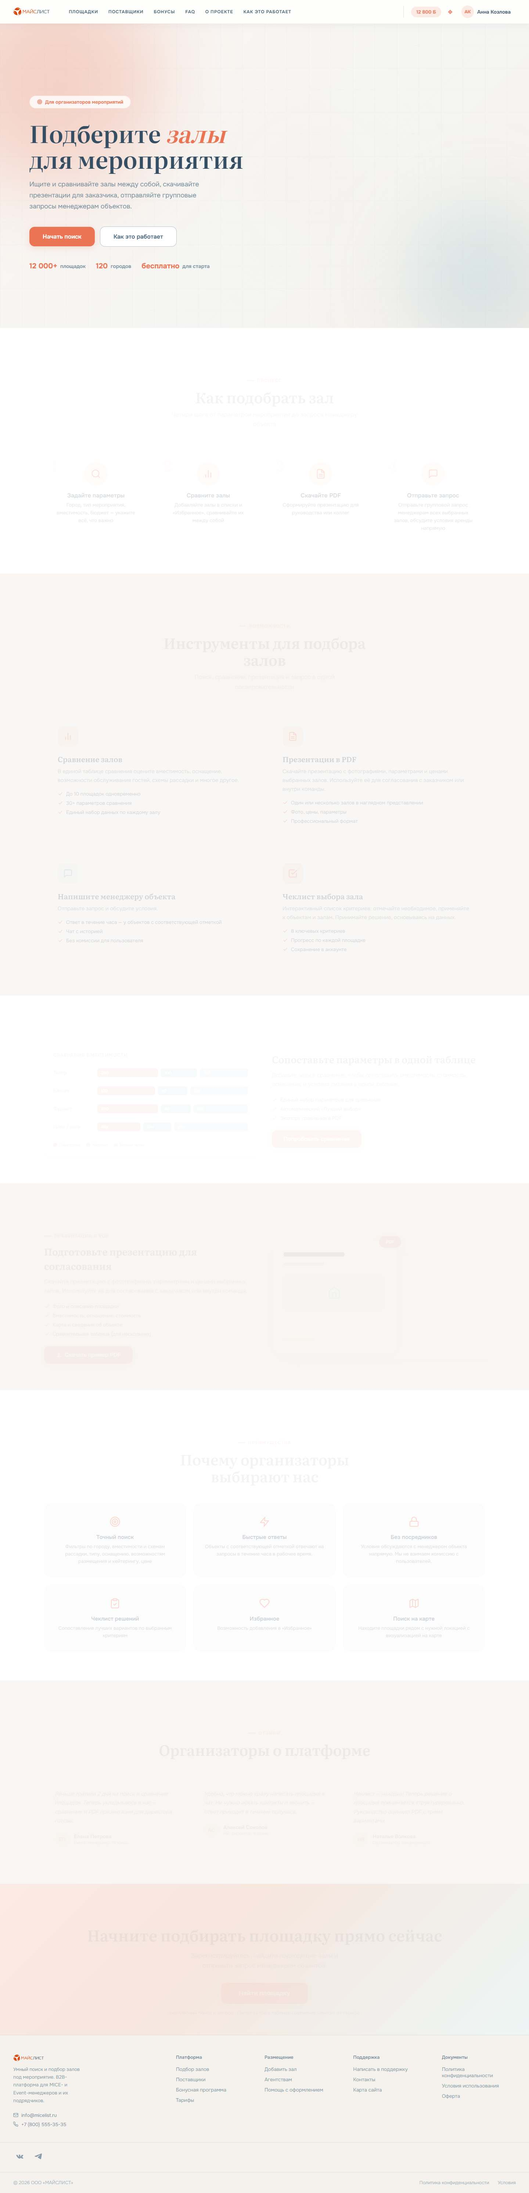
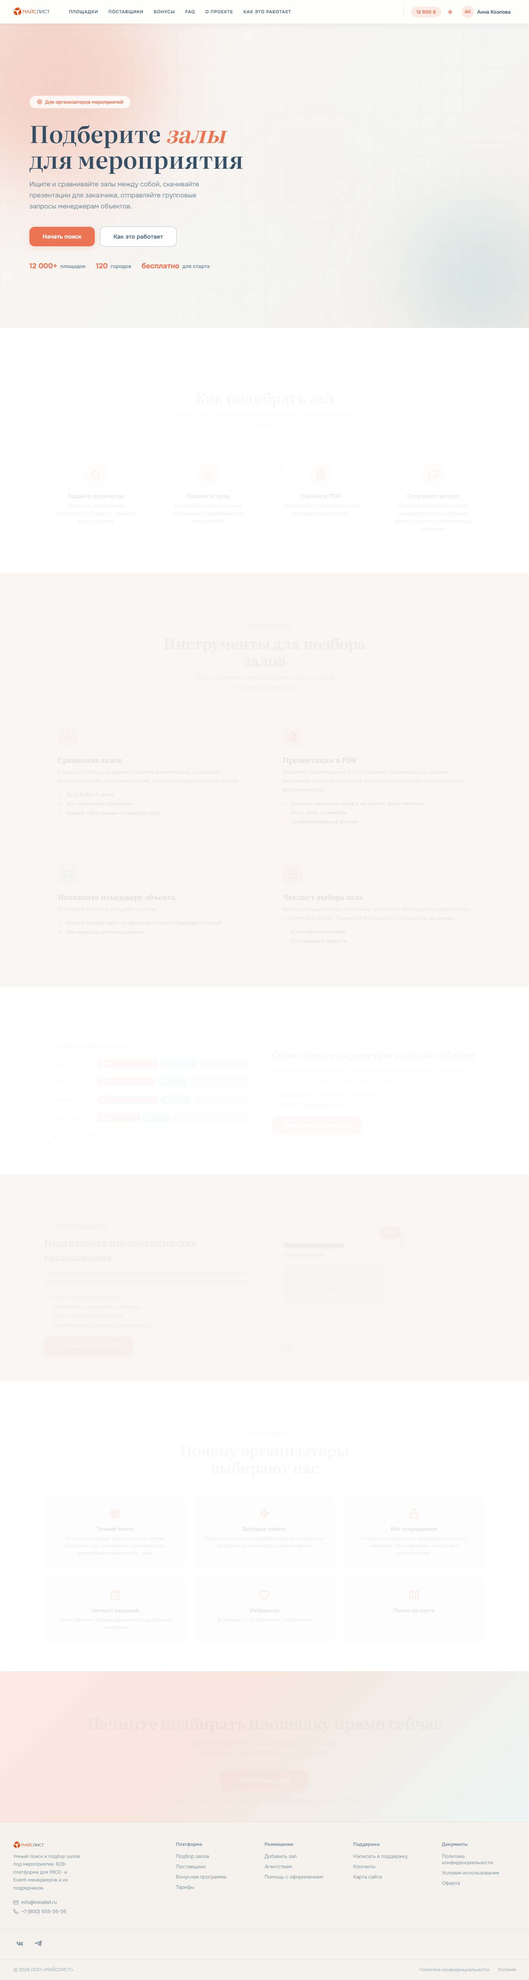
Тексты сайта, раунд 2: скрыты удалённые клиентом блоки, доработки по отчёту
- Блоки, удалённые в корректуре, скрыты комментарием REMOVED BY CLIENT
  (отзывы на трёх страницах, пункты про чат, карточки функций и др.);
  в «Функциях платформы» на планшете последняя карточка на всю строку.
- «Агентствам»: лимиты сравнения собираются из тарифов.
- «О проекте»: нейтральные значки вместо ✕.
- listing-help: info@micelist.ru.
- data.js: миграция старых названий удобств в localStorage.
- Окно «Написать нам»: аккуратный перенос длинной темы на узких экранах.

diff --git a/app/for-organizers.html b/app/for-organizers.html
@@ -193,7 +193,7 @@
     <div class="preview-stack">
       <div class="pv pv-1"><div class="pv-icon"><svg width="20" height="20" viewBox="0 0 24 24" fill="none" stroke="var(--c)" stroke-width="2" stroke-linecap="round" stroke-linejoin="round"><line x1="18" y1="20" x2="18" y2="10"/><line x1="12" y1="20" x2="12" y2="4"/><line x1="6" y1="20" x2="6" y2="14"/></svg></div><div class="pv-title">Сравнение залов</div><div class="pv-text">Вместимость, цены, оснащение и услуги — всё рядом</div><div class="pv-bar"><div class="pv-bar-fill" style="width:85%"></div></div></div>
       <div class="pv pv-2"><div class="pv-icon"><svg width="20" height="20" viewBox="0 0 24 24" fill="none" stroke="var(--c)" stroke-width="2" stroke-linecap="round" stroke-linejoin="round"><path d="M14.5 2H6a2 2 0 0 0-2 2v16a2 2 0 0 0 2 2h12a2 2 0 0 0 2-2V7.5L14.5 2z"/><polyline points="14 2 14 8 20 8"/><line x1="16" y1="13" x2="8" y2="13"/><line x1="16" y1="17" x2="8" y2="17"/></svg></div><div class="pv-title">Презентация в PDF</div><div class="pv-text">Скачайте и отправьте руководству</div></div>
-      <div class="pv pv-3"><div class="pv-icon"><svg width="20" height="20" viewBox="0 0 24 24" fill="none" stroke="var(--c)" stroke-width="2" stroke-linecap="round" stroke-linejoin="round"><path d="M21 15a2 2 0 0 1-2 2H7l-4 4V5a2 2 0 0 1 2-2h14a2 2 0 0 1 2 2z"/></svg></div><div class="pv-title">Прямая связь</div><div class="pv-text">Чат с площадкой без посредников</div></div>
+      <div class="pv pv-3"><div class="pv-icon"><svg width="20" height="20" viewBox="0 0 24 24" fill="none" stroke="var(--c)" stroke-width="2" stroke-linecap="round" stroke-linejoin="round"><path d="M21 15a2 2 0 0 1-2 2H7l-4 4V5a2 2 0 0 1 2-2h14a2 2 0 0 1 2 2z"/></svg></div><div class="pv-title">Прямая связь</div><!-- REMOVED BY CLIENT: подпись карточки «Прямая связь» | <div class="pv-text">Чат с площадкой без посредников</div> --></div>
     </div>
   </div>
 </section>
@@ -216,10 +216,10 @@
   <div class="section-center reveal"><div class="section-label">Возможности</div><h2 class="section-title">Инструменты для подбора залов</h2><p class="section-desc">Поиск, сравнение, презентация и запрос в одной последовательности</p></div>
   <div class="container">
     <div class="features">
-      <div class="feat reveal"><div class="feat-icon coral"><svg width="26" height="26" viewBox="0 0 24 24" fill="none" stroke="var(--c)" stroke-width="1.8" stroke-linecap="round" stroke-linejoin="round"><line x1="18" y1="20" x2="18" y2="10"/><line x1="12" y1="20" x2="12" y2="4"/><line x1="6" y1="20" x2="6" y2="14"/></svg></div><div class="feat-t">Сравнение залов</div><div class="feat-d">В единой таблице сравнения оцените вместимость, оснащение, возможности обслуживания гостей, схемы рассадки и многое другое.</div><ul class="feat-list"><li><svg width="15" height="15" fill="none" viewBox="0 0 15 15"><path d="M3 7.5l3 3 6-6.5" stroke="currentColor" stroke-width="1.6" stroke-linecap="round" stroke-linejoin="round"/></svg>До 10 площадок одновременно</li><li><svg width="15" height="15" fill="none" viewBox="0 0 15 15"><path d="M3 7.5l3 3 6-6.5" stroke="currentColor" stroke-width="1.6" stroke-linecap="round" stroke-linejoin="round"/></svg>30+ параметров сравнения</li><li><svg width="15" height="15" fill="none" viewBox="0 0 15 15"><path d="M3 7.5l3 3 6-6.5" stroke="currentColor" stroke-width="1.6" stroke-linecap="round" stroke-linejoin="round"/></svg>Единый набор данных по каждому залу</li></ul></div>
+      <div class="feat reveal"><div class="feat-icon coral"><svg width="26" height="26" viewBox="0 0 24 24" fill="none" stroke="var(--c)" stroke-width="1.8" stroke-linecap="round" stroke-linejoin="round"><line x1="18" y1="20" x2="18" y2="10"/><line x1="12" y1="20" x2="12" y2="4"/><line x1="6" y1="20" x2="6" y2="14"/></svg></div><div class="feat-t">Сравнение залов</div><div class="feat-d">В единой таблице сравнения оцените вместимость, оснащение, возможности обслуживания гостей, схемы рассадки и многое другое.</div><ul class="feat-list"><li><svg width="15" height="15" fill="none" viewBox="0 0 15 15"><path d="M3 7.5l3 3 6-6.5" stroke="currentColor" stroke-width="1.6" stroke-linecap="round" stroke-linejoin="round"/></svg><span data-compare-limits>Лимит зависит от тарифа</span></li><li><svg width="15" height="15" fill="none" viewBox="0 0 15 15"><path d="M3 7.5l3 3 6-6.5" stroke="currentColor" stroke-width="1.6" stroke-linecap="round" stroke-linejoin="round"/></svg>30+ параметров сравнения</li><li><svg width="15" height="15" fill="none" viewBox="0 0 15 15"><path d="M3 7.5l3 3 6-6.5" stroke="currentColor" stroke-width="1.6" stroke-linecap="round" stroke-linejoin="round"/></svg>Единый набор данных по каждому залу</li></ul></div>
       <div class="feat reveal"><div class="feat-icon coral"><svg width="26" height="26" viewBox="0 0 24 24" fill="none" stroke="var(--c)" stroke-width="1.8" stroke-linecap="round" stroke-linejoin="round"><path d="M14.5 2H6a2 2 0 0 0-2 2v16a2 2 0 0 0 2 2h12a2 2 0 0 0 2-2V7.5L14.5 2z"/><polyline points="14 2 14 8 20 8"/><line x1="16" y1="13" x2="8" y2="13"/><line x1="16" y1="17" x2="8" y2="17"/></svg></div><div class="feat-t">Презентации в PDF</div><div class="feat-d">Скачайте презентацию с фотографиями, параметрами и ценами выбранных залов. Используйте её для согласования с заказчиком или внутри команды.</div><ul class="feat-list"><li><svg width="15" height="15" fill="none" viewBox="0 0 15 15"><path d="M3 7.5l3 3 6-6.5" stroke="currentColor" stroke-width="1.6" stroke-linecap="round" stroke-linejoin="round"/></svg>Один или несколько залов в наглядном представлении</li><li><svg width="15" height="15" fill="none" viewBox="0 0 15 15"><path d="M3 7.5l3 3 6-6.5" stroke="currentColor" stroke-width="1.6" stroke-linecap="round" stroke-linejoin="round"/></svg>Фото, цены, параметры</li><li><svg width="15" height="15" fill="none" viewBox="0 0 15 15"><path d="M3 7.5l3 3 6-6.5" stroke="currentColor" stroke-width="1.6" stroke-linecap="round" stroke-linejoin="round"/></svg>Профессиональный формат</li></ul></div>
-      <div class="feat reveal"><div class="feat-icon aqua"><svg width="26" height="26" viewBox="0 0 24 24" fill="none" stroke="var(--aq)" stroke-width="1.8" stroke-linecap="round" stroke-linejoin="round"><path d="M21 15a2 2 0 0 1-2 2H7l-4 4V5a2 2 0 0 1 2-2h14a2 2 0 0 1 2 2z"/></svg></div><div class="feat-t">Напишите менеджеру объекта</div><div class="feat-d">Отправьте запрос и обсудите условия.</div><ul class="feat-list"><li><svg width="15" height="15" fill="none" viewBox="0 0 15 15"><path d="M3 7.5l3 3 6-6.5" stroke="currentColor" stroke-width="1.6" stroke-linecap="round" stroke-linejoin="round"/></svg>Ответ в течение часа — у объектов с соответствующей отметкой</li><li><svg width="15" height="15" fill="none" viewBox="0 0 15 15"><path d="M3 7.5l3 3 6-6.5" stroke="currentColor" stroke-width="1.6" stroke-linecap="round" stroke-linejoin="round"/></svg>Чат с историей</li><li><svg width="15" height="15" fill="none" viewBox="0 0 15 15"><path d="M3 7.5l3 3 6-6.5" stroke="currentColor" stroke-width="1.6" stroke-linecap="round" stroke-linejoin="round"/></svg>Без комиссии для пользователя</li></ul></div>
-      <div class="feat reveal"><div class="feat-icon peach"><svg width="26" height="26" viewBox="0 0 24 24" fill="none" stroke="var(--c)" stroke-width="1.8" stroke-linecap="round" stroke-linejoin="round"><polyline points="9 11 12 14 22 4"/><path d="M21 12v7a2 2 0 0 1-2 2H5a2 2 0 0 1-2-2V5a2 2 0 0 1 2-2h11"/></svg></div><div class="feat-t">Чеклист выбора зала</div><div class="feat-d">Интерактивный список критериев: отмечайте необходимое, применяйте к объектам и залам. Принимайте решение, основываясь на данных.</div><ul class="feat-list"><li><svg width="15" height="15" fill="none" viewBox="0 0 15 15"><path d="M3 7.5l3 3 6-6.5" stroke="currentColor" stroke-width="1.6" stroke-linecap="round" stroke-linejoin="round"/></svg>8 ключевых критериев</li><li><svg width="15" height="15" fill="none" viewBox="0 0 15 15"><path d="M3 7.5l3 3 6-6.5" stroke="currentColor" stroke-width="1.6" stroke-linecap="round" stroke-linejoin="round"/></svg>Прогресс по каждой площадке</li><li><svg width="15" height="15" fill="none" viewBox="0 0 15 15"><path d="M3 7.5l3 3 6-6.5" stroke="currentColor" stroke-width="1.6" stroke-linecap="round" stroke-linejoin="round"/></svg>Сохранение в аккаунте</li></ul></div>
+      <div class="feat reveal"><div class="feat-icon aqua"><svg width="26" height="26" viewBox="0 0 24 24" fill="none" stroke="var(--aq)" stroke-width="1.8" stroke-linecap="round" stroke-linejoin="round"><path d="M21 15a2 2 0 0 1-2 2H7l-4 4V5a2 2 0 0 1 2-2h14a2 2 0 0 1 2 2z"/></svg></div><div class="feat-t">Напишите менеджеру объекта</div><div class="feat-d">Отправьте запрос и обсудите условия.</div><ul class="feat-list"><li><svg width="15" height="15" fill="none" viewBox="0 0 15 15"><path d="M3 7.5l3 3 6-6.5" stroke="currentColor" stroke-width="1.6" stroke-linecap="round" stroke-linejoin="round"/></svg>Ответ в течение часа — у объектов с соответствующей отметкой</li><!-- REMOVED BY CLIENT: пункт списка | <li><svg width="15" height="15" fill="none" viewBox="0 0 15 15"><path d="M3 7.5l3 3 6-6.5" stroke="currentColor" stroke-width="1.6" stroke-linecap="round" stroke-linejoin="round"/></svg>Чат с историей</li> --><li><svg width="15" height="15" fill="none" viewBox="0 0 15 15"><path d="M3 7.5l3 3 6-6.5" stroke="currentColor" stroke-width="1.6" stroke-linecap="round" stroke-linejoin="round"/></svg>Без комиссии для пользователя</li></ul></div>
+      <div class="feat reveal"><div class="feat-icon peach"><svg width="26" height="26" viewBox="0 0 24 24" fill="none" stroke="var(--c)" stroke-width="1.8" stroke-linecap="round" stroke-linejoin="round"><polyline points="9 11 12 14 22 4"/><path d="M21 12v7a2 2 0 0 1-2 2H5a2 2 0 0 1-2-2V5a2 2 0 0 1 2-2h11"/></svg></div><div class="feat-t">Чеклист выбора зала</div><div class="feat-d">Интерактивный список критериев: отмечайте необходимое, применяйте к объектам и залам. Принимайте решение, основываясь на данных.</div><ul class="feat-list"><li><svg width="15" height="15" fill="none" viewBox="0 0 15 15"><path d="M3 7.5l3 3 6-6.5" stroke="currentColor" stroke-width="1.6" stroke-linecap="round" stroke-linejoin="round"/></svg>8 ключевых критериев</li><!-- REMOVED BY CLIENT: пункт списка | <li><svg width="15" height="15" fill="none" viewBox="0 0 15 15"><path d="M3 7.5l3 3 6-6.5" stroke="currentColor" stroke-width="1.6" stroke-linecap="round" stroke-linejoin="round"/></svg>Прогресс по каждой площадке</li> --><li><svg width="15" height="15" fill="none" viewBox="0 0 15 15"><path d="M3 7.5l3 3 6-6.5" stroke="currentColor" stroke-width="1.6" stroke-linecap="round" stroke-linejoin="round"/></svg>Сохранение в аккаунте</li></ul></div>
     </div>
   </div>
 </section>
@@ -239,7 +239,7 @@
       <div class="cmp-text">
         <h3>Сопоставьте параметры в одной таблице</h3>
         <p>Добавьте залы в сравнение, чтобы сопоставить вместимость, стоимость, оснащение и условия питания в одной таблице.</p>
-        <ul class="feat-list"><li><svg width="15" height="15" fill="none" viewBox="0 0 15 15"><path d="M3 7.5l3 3 6-6.5" stroke="currentColor" stroke-width="1.6" stroke-linecap="round" stroke-linejoin="round"/></svg>Единый набор параметров для сравнения</li><li><svg width="15" height="15" fill="none" viewBox="0 0 15 15"><path d="M3 7.5l3 3 6-6.5" stroke="currentColor" stroke-width="1.6" stroke-linecap="round" stroke-linejoin="round"/></svg>Автоматический «Лучший выбор»</li><li><svg width="15" height="15" fill="none" viewBox="0 0 15 15"><path d="M3 7.5l3 3 6-6.5" stroke="currentColor" stroke-width="1.6" stroke-linecap="round" stroke-linejoin="round"/></svg>Экспорт сравнения в PDF</li></ul>
+        <ul class="feat-list"><li><svg width="15" height="15" fill="none" viewBox="0 0 15 15"><path d="M3 7.5l3 3 6-6.5" stroke="currentColor" stroke-width="1.6" stroke-linecap="round" stroke-linejoin="round"/></svg>Единый набор параметров для сравнения</li><!-- REMOVED BY CLIENT: пункт списка | <li><svg width="15" height="15" fill="none" viewBox="0 0 15 15"><path d="M3 7.5l3 3 6-6.5" stroke="currentColor" stroke-width="1.6" stroke-linecap="round" stroke-linejoin="round"/></svg>Автоматический «Лучший выбор»</li> --><li><svg width="15" height="15" fill="none" viewBox="0 0 15 15"><path d="M3 7.5l3 3 6-6.5" stroke="currentColor" stroke-width="1.6" stroke-linecap="round" stroke-linejoin="round"/></svg>Экспорт сравнения в PDF</li></ul>
         <button class="cmp-btn">Попробовать сравнение</button>
       </div>
     </div>
@@ -285,12 +285,13 @@
       <div class="ben reveal"><div class="ben-icon"><svg width="30" height="30" viewBox="0 0 24 24" fill="none" stroke="var(--c)" stroke-width="1.8" stroke-linecap="round" stroke-linejoin="round"><rect width="18" height="11" x="3" y="11" rx="2" ry="2"/><path d="M7 11V7a5 5 0 0 1 10 0v4"/></svg></div><div class="ben-t">Без посредников</div><div class="ben-d">Условия обсуждаются с менеджером объекта напрямую. Мы не взимаем комиссию с пользователей.</div></div>
       <div class="ben reveal"><div class="ben-icon"><svg width="30" height="30" viewBox="0 0 24 24" fill="none" stroke="var(--c)" stroke-width="1.8" stroke-linecap="round" stroke-linejoin="round"><rect width="8" height="4" x="8" y="2" rx="1" ry="1"/><path d="M16 4h2a2 2 0 0 1 2 2v14a2 2 0 0 1-2 2H6a2 2 0 0 1-2-2V6a2 2 0 0 1 2-2h2"/><path d="m9 14 2 2 4-4"/></svg></div><div class="ben-t">Чеклист решений</div><div class="ben-d">Сопоставление лучших вариантов по выбранным критериям</div></div>
       <div class="ben reveal"><div class="ben-icon"><svg width="30" height="30" viewBox="0 0 24 24" fill="none" stroke="var(--c)" stroke-width="1.8" stroke-linecap="round" stroke-linejoin="round"><path d="M19 14c1.49-1.46 3-3.21 3-5.5A5.5 5.5 0 0 0 16.5 3c-1.76 0-3 .5-4.5 2-1.5-1.5-2.74-2-4.5-2A5.5 5.5 0 0 0 2 8.5c0 2.3 1.5 4.05 3 5.5l7 7Z"/></svg></div><div class="ben-t">Избранное</div><div class="ben-d">Возможность добавления в «Избранное»</div></div>
-      <div class="ben reveal"><div class="ben-icon"><svg width="30" height="30" viewBox="0 0 24 24" fill="none" stroke="var(--c)" stroke-width="1.8" stroke-linecap="round" stroke-linejoin="round"><polygon points="3 6 9 3 15 6 21 3 21 18 15 21 9 18 3 21"/><line x1="9" y1="3" x2="9" y2="18"/><line x1="15" y1="6" x2="15" y2="21"/></svg></div><div class="ben-t">Поиск на карте</div><div class="ben-d">Находите площадки рядом с нужной локацией с визуализацией на карте</div></div>
+      <div class="ben reveal"><div class="ben-icon"><svg width="30" height="30" viewBox="0 0 24 24" fill="none" stroke="var(--c)" stroke-width="1.8" stroke-linecap="round" stroke-linejoin="round"><polygon points="3 6 9 3 15 6 21 3 21 18 15 21 9 18 3 21"/><line x1="9" y1="3" x2="9" y2="18"/><line x1="15" y1="6" x2="15" y2="21"/></svg></div><div class="ben-t">Поиск на карте</div><!-- REMOVED BY CLIENT: описание «Поиск на карте» | <div class="ben-d">Находите площадки рядом с нужной локацией с визуализацией на карте</div> --></div>
     </div>
   </div>
 </section>
 
 <!-- TESTIMONIALS -->
+<!-- REMOVED BY CLIENT: отзывы «Организаторы о платформе» (решение клиента: не публиковать фейковые отзывы)
 <section class="section">
   <div class="section-center reveal"><div class="section-label">Отзывы</div><h2 class="section-title">Организаторы о платформе</h2></div>
   <div class="container">
@@ -300,7 +301,7 @@
       <div class="test reveal"><div class="test-q">Чеклист — находка! Теперь решение о площадке принимается структурированно. Руководство оценило PDF с тремя вариантами.</div><div class="test-author"><div class="test-av">НВ</div><div><div class="test-name">Наталья Волкова</div><div class="test-role">Организатор конференций</div></div></div></div>
     </div>
   </div>
-</section>
+</section> -->
 
 <!-- FINAL CTA -->
 <section class="cta-block">
@@ -321,6 +322,17 @@ document.querySelectorAll('.reveal').forEach(el=>obs.observe(el));
 </script>
 <script src="data.js"></script>
 <script src="shared.js"></script>
-<script>MH.init('agencies');</script>
+<script>
+MH.init('agencies');
+/* Лимиты сравнения по платным тарифам — из модели, а не из текста: «До 2, 6 или 15 залов» */
+(function () {
+  const el = document.querySelector('[data-compare-limits]');
+  const n = ML.plans().map(t => t.compare).filter(x => isFinite(x) && x > 0);
+  if (!el || !n.length) return;
+  const last = n[n.length - 1];
+  const list = n.length > 1 ? n.slice(0, -1).join(', ') + ' или ' + last : String(last);
+  el.textContent = 'До ' + list + ' ' + (last % 10 === 1 && last % 100 !== 11 ? 'зала' : 'залов');
+})();
+</script>
 </body>
 </html>

diff --git a/app/list-venue.html b/app/list-venue.html
@@ -184,6 +184,8 @@ button{font-family:inherit;cursor:pointer;}
 .reveal.vis{opacity:1;transform:translateY(0);}
 
 @media(max-width:1100px){.hero-right{display:none;}.hero{padding:120px 48px 80px;gap:0;}}
+/* после скрытия трёх карточек в «Функциях платформы» их нечётное число: в две колонки последняя — на всю строку */
+@media(min-width:601px) and (max-width:900px){.features-grid .feat-card:last-child:nth-child(odd){grid-column:1/-1;}}
 @media(max-width:900px){.steps-grid,.benefits-grid,.features-grid,.test-grid{grid-template-columns:1fr 1fr;}.cat-grid{grid-template-columns:1fr 1fr;}}
 @media(max-width:600px){.nav{padding:0 20px;height:60px;}.nav-links a:not(.nav-cta){display:none;}.hero{padding:100px 20px 60px;min-height:auto;}.hero-h1{font-size:32px;}.hero-sub{font-size:16px;}.hero-actions{flex-direction:column;align-items:stretch;}.btn-hero{text-align:center;}.hero-trust{flex-direction:column;gap:12px;}.section{padding:60px 20px;}.steps-grid,.benefits-grid,.features-grid,.test-grid,.cat-grid{grid-template-columns:1fr;}.footer{padding:40px 20px 20px;}.footer-grid{grid-template-columns:1fr 1fr;gap:20px;}.cta-section{padding:48px 20px;}}
 </style>
@@ -309,21 +311,22 @@ button{font-family:inherit;cursor:pointer;}
   <div class="section-center reveal">
     <div class="section-label">Возможности</div>
     <h2 class="section-title">Функции платформы</h2>
-    <p class="section-desc">Инструменты для эффективного управления площадкой</p>
+    <!-- REMOVED BY CLIENT: подзаголовок «Функции платформы» | <p class="section-desc">Инструменты для эффективного управления площадкой</p> -->
   </div>
   <div class="container">
     <div class="features-grid">
       <div class="feat-card reveal"><div class="feat-icon"><svg width="32" height="32" viewBox="0 0 24 24" fill="none" stroke="var(--c)" stroke-width="1.5" stroke-linecap="round" stroke-linejoin="round"><path d="M21 15a2 2 0 0 1-2 2H7l-4 4V5a2 2 0 0 1 2-2h14a2 2 0 0 1 2 2z"/></svg></div><div class="feat-title">Управление запросами</div><div class="feat-text">Статусы запросов, шаблоны быстрых ответов</div></div>
       <div class="feat-card reveal"><div class="feat-icon"><svg width="32" height="32" viewBox="0 0 24 24" fill="none" stroke="var(--c)" stroke-width="1.5" stroke-linecap="round" stroke-linejoin="round"><path d="M11 4H4a2 2 0 0 0-2 2v14a2 2 0 0 0 2 2h14a2 2 0 0 0 2-2v-7"/><path d="M18.5 2.5a2.121 2.121 0 0 1 3 3L12 15l-4 1 1-4 9.5-9.5z"/></svg></div><div class="feat-title">Редактирование профиля</div><div class="feat-text">Описания залов, фото, цены</div></div>
       <div class="feat-card reveal"><div class="feat-icon"><svg width="32" height="32" viewBox="0 0 24 24" fill="none" stroke="var(--c)" stroke-width="1.5" stroke-linecap="round" stroke-linejoin="round"><line x1="18" y1="20" x2="18" y2="10"/><line x1="12" y1="20" x2="12" y2="4"/><line x1="6" y1="20" x2="6" y2="14"/></svg></div><div class="feat-title">Статистика просмотров</div><div class="feat-text">Динамика эффективности</div></div>
-      <div class="feat-card reveal"><div class="feat-icon"><svg width="32" height="32" viewBox="0 0 24 24" fill="none" stroke="var(--c)" stroke-width="1.5" stroke-linecap="round" stroke-linejoin="round"><polygon points="13 2 3 14 12 14 11 22 21 10 12 10 13 2"/></svg></div><div class="feat-title">Быстрые ответы</div><div class="feat-text">Шаблоны сообщений для отклика</div></div>
-      <div class="feat-card reveal"><div class="feat-icon"><svg width="32" height="32" viewBox="0 0 24 24" fill="none" stroke="var(--c)" stroke-width="1.5" stroke-linecap="round" stroke-linejoin="round"><rect width="18" height="18" x="3" y="4" rx="2" ry="2"/><line x1="16" y1="2" x2="16" y2="6"/><line x1="8" y1="2" x2="8" y2="6"/><line x1="3" y1="10" x2="21" y2="10"/></svg></div><div class="feat-title">Календарь дат</div><div class="feat-text">Управление доступностью и загруженностью</div></div>
-      <div class="feat-card reveal"><div class="feat-icon"><svg width="32" height="32" viewBox="0 0 24 24" fill="none" stroke="var(--c)" stroke-width="1.5" stroke-linecap="round" stroke-linejoin="round"><path d="M18 8A6 6 0 0 0 6 8c0 7-3 9-3 9h18s-3-2-3-9"/><path d="M13.73 21a2 2 0 0 1-3.46 0"/></svg></div><div class="feat-title">Уведомления</div><div class="feat-text">Уведомления о новых запросах и изменениях</div></div>
+      <!-- REMOVED BY CLIENT: карточка «Быстрые ответы» | <div class="feat-card reveal"><div class="feat-icon"><svg width="32" height="32" viewBox="0 0 24 24" fill="none" stroke="var(--c)" stroke-width="1.5" stroke-linecap="round" stroke-linejoin="round"><polygon points="13 2 3 14 12 14 11 22 21 10 12 10 13 2"/></svg></div><div class="feat-title">Быстрые ответы</div><div class="feat-text">Шаблоны сообщений для отклика</div></div> -->
+      <!-- REMOVED BY CLIENT: карточка «Календарь дат» | <div class="feat-card reveal"><div class="feat-icon"><svg width="32" height="32" viewBox="0 0 24 24" fill="none" stroke="var(--c)" stroke-width="1.5" stroke-linecap="round" stroke-linejoin="round"><rect width="18" height="18" x="3" y="4" rx="2" ry="2"/><line x1="16" y1="2" x2="16" y2="6"/><line x1="8" y1="2" x2="8" y2="6"/><line x1="3" y1="10" x2="21" y2="10"/></svg></div><div class="feat-title">Календарь дат</div><div class="feat-text">Управление доступностью и загруженностью</div></div> -->
+      <!-- REMOVED BY CLIENT: карточка «Уведомления» | <div class="feat-card reveal"><div class="feat-icon"><svg width="32" height="32" viewBox="0 0 24 24" fill="none" stroke="var(--c)" stroke-width="1.5" stroke-linecap="round" stroke-linejoin="round"><path d="M18 8A6 6 0 0 0 6 8c0 7-3 9-3 9h18s-3-2-3-9"/><path d="M13.73 21a2 2 0 0 1-3.46 0"/></svg></div><div class="feat-title">Уведомления</div><div class="feat-text">Уведомления о новых запросах и изменениях</div></div> -->
     </div>
   </div>
 </section>
 
 <!-- TESTIMONIALS -->
+<!-- REMOVED BY CLIENT: отзывы «Владельцы площадок о нас» (решение клиента: не публиковать фейковые отзывы)
 <section class="section">
   <div class="section-center reveal">
     <div class="section-label">Отзывы</div>
@@ -345,7 +348,7 @@ button{font-family:inherit;cursor:pointer;}
       </div>
     </div>
   </div>
-</section>
+</section> -->
 
 <!-- FINAL CTA -->
 <section class="cta-section">

diff --git a/app/about.html b/app/about.html
@@ -58,13 +58,14 @@ h2{font-family:'Literata',Georgia,serif;font-size:24px;font-weight:600;color:var
 .feat b{display:block;font-size:14.5px;font-weight:700;color:var(--slate-deep);margin-bottom:6px;}
 .feat span{font-size:13px;line-height:1.6;color:var(--slate-muted);}
 
-/* чего не делаем */
+/* что происходит вне платформы: нейтральный значок «наружу» */
 .nots{display:flex;flex-direction:column;gap:10px;}
 .not{display:flex;align-items:flex-start;gap:12px;background:var(--white);
-  border:1px solid rgba(197,227,225,.32);border-left:3px solid var(--coral);
+  border:1px solid rgba(197,227,225,.32);border-left:3px solid var(--aqua-3);
   border-radius:var(--r-md);padding:15px 18px;box-shadow:var(--sh-sm);}
-.not-x{width:22px;height:22px;border-radius:50%;background:var(--coral-soft);color:var(--coral);
-  display:flex;align-items:center;justify-content:center;font-size:12px;font-weight:800;flex-shrink:0;margin-top:1px;}
+.not-x{width:22px;height:22px;border-radius:50%;background:var(--aqua-pale);color:var(--slate-mid);
+  display:flex;align-items:center;justify-content:center;flex-shrink:0;margin-top:1px;}
+.not-x svg{display:block;}
 .not b{display:block;font-size:14px;font-weight:700;color:var(--slate-deep);margin-bottom:4px;}
 .not span{font-size:13px;line-height:1.6;color:var(--slate-muted);}
 
@@ -111,17 +112,18 @@ h2{font-family:'Literata',Georgia,serif;font-size:24px;font-weight:600;color:var
 
   <h2>Что происходит вне платформы</h2>
   <div class="nots">
-    <div class="not"><span class="not-x">✕</span><div>
+    <div class="not"><span class="not-x" aria-hidden="true"><svg width="12" height="12" viewBox="0 0 24 24" fill="none" stroke="currentColor" stroke-width="2.4" stroke-linecap="round" stroke-linejoin="round"><path d="M7 17 17 7"/><path d="M8 7h9v9"/></svg></span><div>
       <b>Бронирование и заключение договора</b>
       <span>Бронирование и договор идут напрямую между вами и объектом. Ресурс не участвует
       в переписке и не выступает стороной сделки.</span></div></div>
-    <div class="not"><span class="not-x">✕</span><div>
+    <div class="not"><span class="not-x" aria-hidden="true"><svg width="12" height="12" viewBox="0 0 24 24" fill="none" stroke="currentColor" stroke-width="2.4" stroke-linecap="round" stroke-linejoin="round"><path d="M7 17 17 7"/><path d="M8 7h9v9"/></svg></span><div>
       <b>Расчёт и согласование сметы</b>
       <span>Калькулятора услуг и смет не предусмотрено. Подтверждающих документов и смет
       ресурс не получает ни от пользователя, ни от объектов.</span></div></div>
-    <div class="not"><span class="not-x">✕</span><div>
+    <!-- REMOVED BY CLIENT: пункт «Не передаёт контакты пользователей»
+    <div class="not"><span class="not-x" aria-hidden="true"><svg width="12" height="12" viewBox="0 0 24 24" fill="none" stroke="currentColor" stroke-width="2.4" stroke-linecap="round" stroke-linejoin="round"><path d="M7 17 17 7"/><path d="M8 7h9v9"/></svg></span><div>
       <b>Не передаёт контакты пользователей</b>
-      <span>Объектам и поставщикам уходит только запрос. Персональные данные не раскрываются.</span></div></div>
+      <span>Объектам и поставщикам уходит только запрос. Персональные данные не раскрываются.</span></div></div> -->
   </div>
 
   <h2>Что в планах МАЙСЛИСТ</h2>

diff --git a/app/data.js b/app/data.js
@@ -541,6 +541,18 @@
   ];
 
   /* ─────────── 8. СОСТОЯНИЕ ПОЛЬЗОВАТЕЛЯ ─────────── */
+  /* Удобства переименованы по корректуре клиента (сентябрь 2026). Старые названия
+     остаются в сохранённых фильтрах посетителей и в объектах, заведённых в кабинете:
+     переводим их при чтении, чтобы выбор не сбрасывался и объекты находились. */
+  const FEATURE_RENAMES = {
+    'Место для велкома': 'Зона Welcome',
+    'Своя парковка': 'Отдельная парковка',
+    'Можно привезти алкоголь': 'Возможен свой алкоголь (пробковый сбор)',
+    'Возможен свой кейтеринг': 'Возможен кейтеринг заказчика',
+  };
+  const renameFeature = (x) => FEATURE_RENAMES[x] || x;
+  const hasOldFeature = (v) => Object.keys(FEATURE_RENAMES).some(k => JSON.stringify(v || '').includes(JSON.stringify(k)));
+
   /* Ключи localStorage. mh_compare теперь хранит ID ЗАЛОВ, а не объектов —
      это ломающее изменение относительно старого mh_compare, поэтому ключ новый. */
 
@@ -557,7 +569,7 @@
   const state = {
     tariff: read(K.tariff, 'guest'),   // первый заход — незарегистрированный посетитель
     filters: unpackFilters(read(K.filters, null)),
-    myVenues: read(K.myVenues, []),
+    myVenues: read(K.myVenues, []).map(v => Array.isArray(v.features) ? Object.assign({}, v, { features: v.features.map(renameFeature) }) : v),
     shopItems: read(K.shopItems, []),
     bonusOrders: read(K.bonusOrders, []),
     supplierRequests: read(K.supplierRequests, []),
@@ -596,6 +608,10 @@
     points: () => write(K.points, state.points),
     requests: () => write(K.requests, state.requests),
   };
+
+  // Однократная миграция: если в хранилище были старые названия удобств, сразу сохраняем новые
+  if (hasOldFeature(read(K.filters, null))) persist.filters();
+  if (hasOldFeature(read(K.myVenues, null))) persist.myVenues();
 
   /* ─────────── 9. СЕЛЕКТОРЫ И ЛОГИКА ─────────── */
 
@@ -1000,7 +1016,7 @@
     if (!raw || typeof raw !== 'object') return F;
     for (const k in F) {
       if (!(k in raw)) continue;
-      if (F[k] instanceof Set) F[k] = new Set(Array.isArray(raw[k]) ? raw[k] : []);
+      if (F[k] instanceof Set) F[k] = new Set((Array.isArray(raw[k]) ? raw[k] : []).map(renameFeature));
       else if (k === 'halls') F[k] = Array.isArray(raw[k])
         ? raw[k].filter(x => x && typeof x === 'object').map(x => ({ seating: String(x.seating || ''), min: +x.min || 0 }))
         : [];

diff --git a/app/shared.js b/app/shared.js
@@ -554,6 +554,16 @@ const MH = (() => {
         cursor: pointer; transition: all .18s; font-family: 'Onest', system-ui, sans-serif;
       }
       .mhfb-chip.sel { background: #FCEAE4; color: #E8846A; border-color: rgba(232,132,106,.3); font-weight: 600; }
+      /* Узкий экран: длинная тема «Спор по факту…» занимает строку целиком и переносится
+         ровно, остальные кнопки тянутся по ширине строки и выравниваются по высоте. */
+      @media (max-width: 480px) {
+        .mhfb-chips { align-items: stretch; }
+        .mhfb-chip {
+          flex: 1 1 auto; display: inline-flex; align-items: center; justify-content: center;
+          text-align: center; line-height: 1.3; min-height: 34px;
+        }
+        .mhfb-chip[data-dispute] { flex-basis: 100%; border-radius: 14px; text-wrap: balance; }
+      }
       .mhfb-textarea {
         width: 100%; padding: 11px 15px; border-radius: 10px;
         border: 1.5px solid rgba(197,227,225,.5); background: #F8F5F2;

diff --git a/app/compare.html b/app/compare.html
@@ -472,7 +472,7 @@ function openPresentation() {
     с полной информацией, фото и точкой на карте.</p>
     <table class="mtbl">
       <tr><th>Залов в файле</th><td>${halls.length}</td></tr>
-      <tr><th>Шаблон</th><td>Корпоративный шаблон заказчика</td></tr>
+      <!-- REMOVED BY CLIENT: строка «Шаблон» в окне презентации | <tr><th>Шаблон</th><td>Корпоративный шаблон заказчика</td></tr> -->
       <tr><th>Рекламный блок</th><td>${t.presentation === 'ads'
         ? 'включён (тариф «БИЗНЕС»)' : 'отсутствует (тариф «ПРЕМИУМ»)'}</td></tr>
       <tr><th>Параметры подбора</th><td>${params.length ? esc(params.join(' · ')) : 'фильтры не задавались'}</td></tr>

diff --git a/app/bonus.html b/app/bonus.html
@@ -231,9 +231,10 @@ function render(){
   </div>
   <div class="shop">${shop}</div>
 
+  <!-- REMOVED BY CLIENT: примечание о витрине: только услуги
   <div class="note">На первом этапе в витрине <b>только услуги</b> — без физических товаров:
   ресурс не берёт на себя хранение, доставку и возвраты. Заявка уходит партнёру,
-  баллы списываются в момент оформления.</div>`;
+  баллы списываются в момент оформления.</div> -->`;
 }
 
 /* Заказ за баллы: комментарий партнёру, списание через ML.orderFromShop,

diff --git a/app/homepage.html b/app/homepage.html
@@ -440,6 +440,7 @@ function render(){
   </section>
 
   <!-- ══════ 8. ОТЗЫВЫ ══════ -->
+  <!-- REMOVED BY CLIENT: отзывы по объектам и поставщикам (в корректуре блок закрыт незакрытым комментарием)
   <section class="sec tint-white">
     <div class="in">
       <div class="sec-head">
@@ -456,7 +457,7 @@ function render(){
         <div class="rev-rail" id="revRail">${revs}</div>
       </div>
     </div>
-  </section>`;
+  </section> -->`;
 
   bindCityAc();
   bindRevRail();

diff --git a/app/listing-help.html b/app/listing-help.html
@@ -264,7 +264,7 @@ function render(){
       </div>
       <div class="panel">
         <h3>Другие способы</h3>
-        <p>Почта: <a href="mailto:info@mayslist.ru">info@mayslist.ru</a><br>
+        <p>Почта: <a href="mailto:info@micelist.ru">info@micelist.ru</a><br>
         Телефон: <a href="tel:+78005553535">+7 (800) 555-35-35</a></p>
         <p>Вопрос не про оформление — <a href="#" onclick="MH.feedback();return false;">напишите в поддержку</a>.</p>
       </div>
